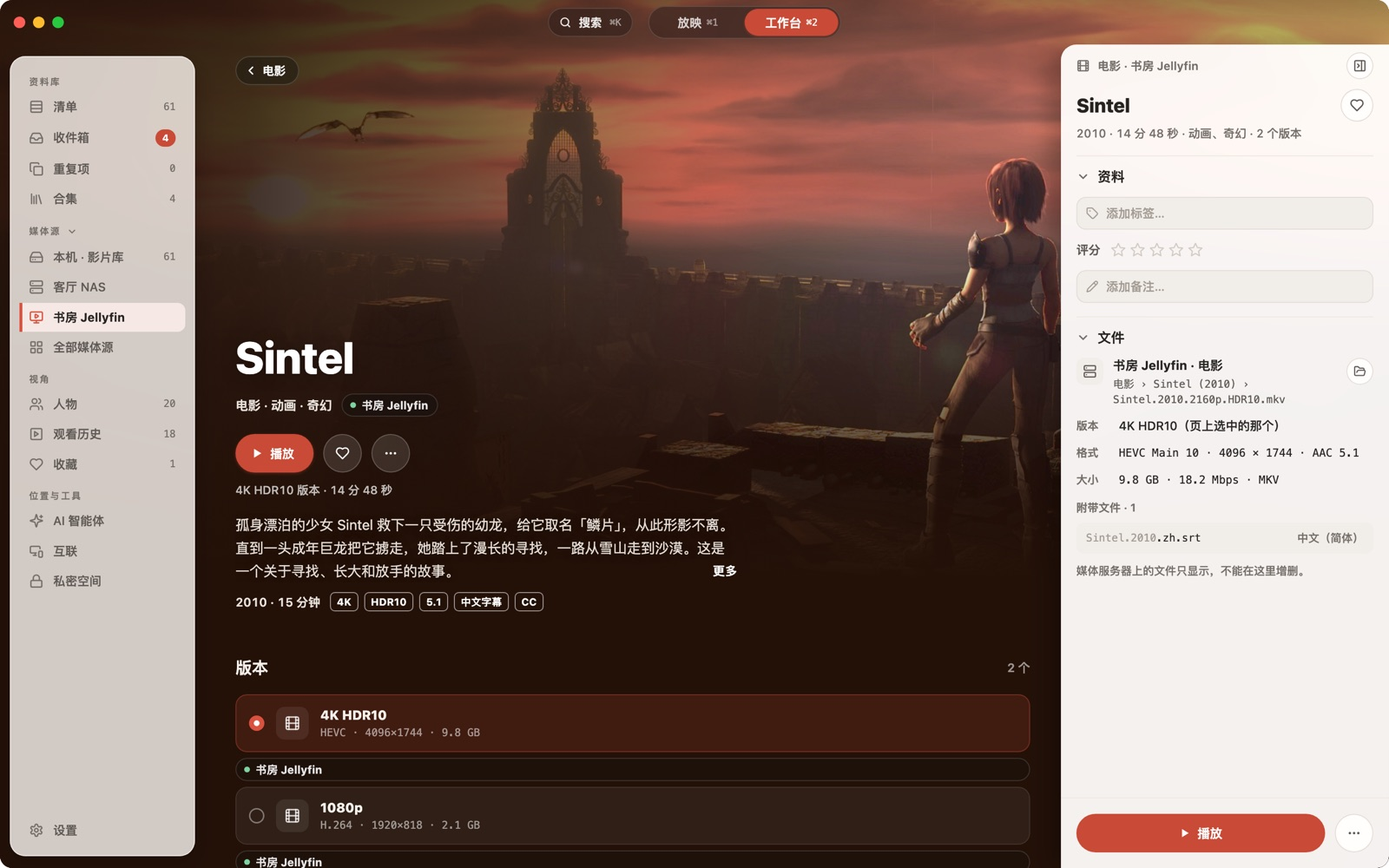
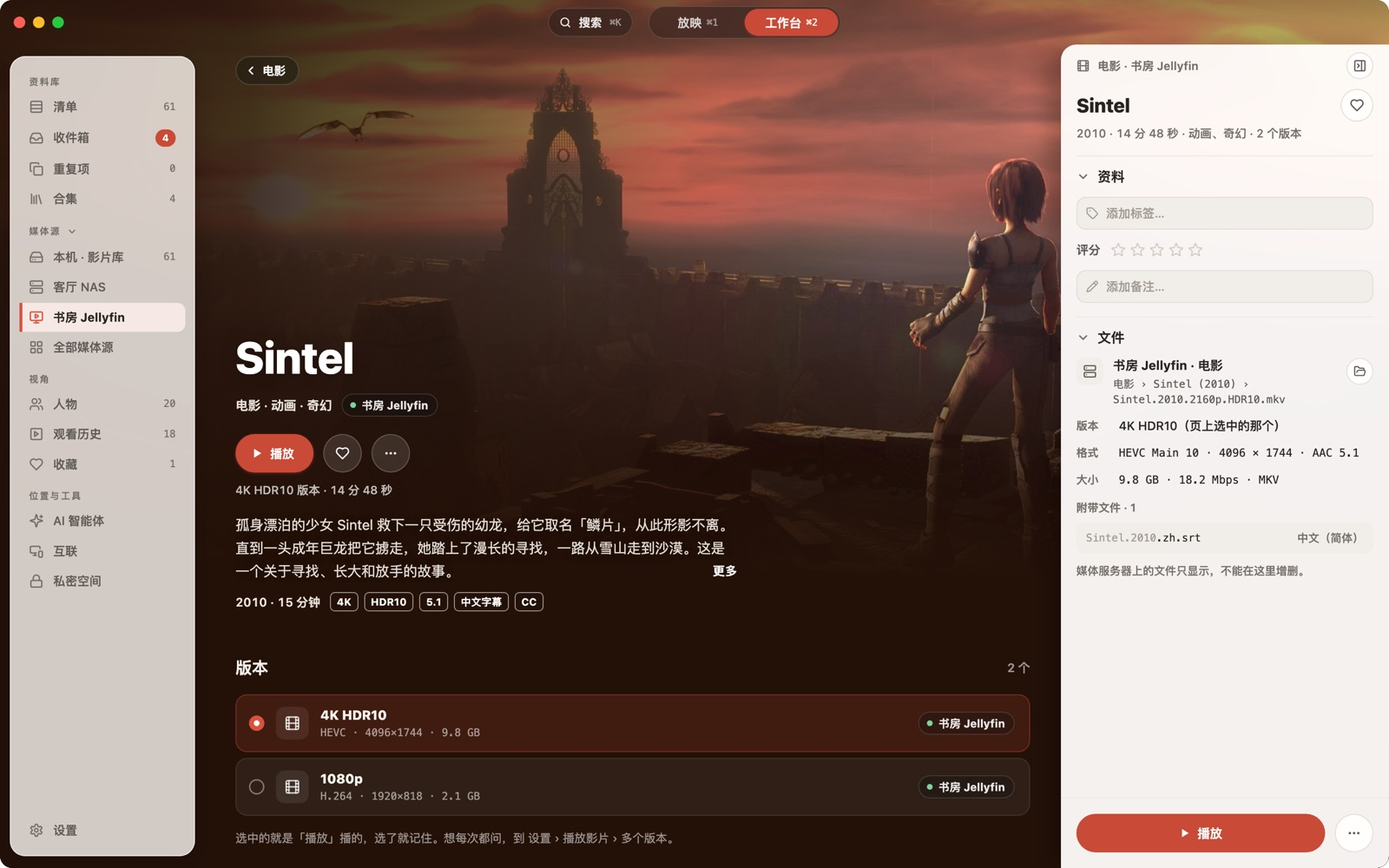
英文攻略页的 13 张截图换成英文界面；合集攻略那张 Mac 截图的来源小条回到各自那一行
英文攻略页（guides/en/ 下 8 页）原来用的是中文界面的截图，现在 13 张都换成英文界面，
文件名是原名加 .en.jpg，大小和中文那张一样，版面不变。中文攻略页照旧用中文截图。

英文界面里的字用的是 App 自己的英文；App 里没有的（示例片名、示例路径、示例日期）
按同一套示例名写。攻略正文里跟图上叫法不一样的三处一起对齐：
「Archive Folder Rules」「Apply the New Rules to Existing Videos」「My TMDB key」。

另外，make-a-collection-1（Sintel 详情页）两个版本行右边的来源小条原来掉到了行下面，
中英两张都改回行内右端，所以中文那张图也重出了一次。

Changed region(s): [[0.1562, 0.868, 0.5, 1.0], [0.6562, 0.899, 0.7188, 0.93], [0.6562, 0.806, 0.7188, 0.837]]

diff --git a/guides/en/build-your-library.html b/guides/en/build-your-library.html
@@ -218,7 +218,7 @@ svg.zg{position:static!important;display:inline-block!important;fill:currentColo
 <p>Nsuve starts with the file and folder names and reads out the title, year, season and episode. If there's an NFO or artwork next to the video, it reads those too. Then it looks the title up and fills in the overview, artwork and cast.</p>
 <p>By default it asks the <b>Nsurator Library DB</b>, which is built into Nsuve. Its data comes from TMDB and Bangumi, so recognition works without any key. What goes out is a query (title, year, season and episode numbers), never the video itself.</p>
 <p>When the same film sits in more than one place, say once on your NAS and once on Emby, Nsuve matches the copies by their TMDB, IMDb and TVDB IDs and shows the film once on the poster wall.</p>
-<figure class="shot dev-mac"><img src="/guides/assets/shots/build-your-library-1.jpg" alt="A title page in Nsuve for Mac: the backdrop, title and overview of Sintel, with two versions listed below" width="1440" height="900" loading="lazy" decoding="async"><figcaption>Every recognized title gets its own page, with the title, overview, the versions you have and where each one lives.</figcaption></figure>
+<figure class="shot dev-mac"><img src="/guides/assets/shots/build-your-library-1.en.jpg" alt="A title page in Nsuve for Mac: the backdrop, title and overview of Sintel, with two versions listed below" width="1440" height="900" loading="lazy" decoding="async"><figcaption>Every recognized title gets its own page, with the title, overview, the versions you have and where each one lives.</figcaption></figure>
 <p>Open a film and check three things: the title and year, whether the overview fits, and whether the version listed is the file you meant. If all three look right, hit <b>Play</b>.</p>
 </section>
 
@@ -262,7 +262,7 @@ svg.zg{position:static!important;display:inline-block!important;fill:currentColo
 <h2>The built-in library or your own TMDB key</h2>
 <p>Nsuve recognizes films without anything filled in. If you'd like a second route, add your own TMDB key. It's optional, it stays in this device's keychain, and when Nsuve uses it, it talks to TMDB directly.</p>
 <ol class="steps">
-<li>On the Mac, open <b>Settings → Movies &amp; TV</b>; on iPhone and iPad, open <b>Manage → Movie &amp; Show Info</b>. Find <b>My TMDB Key</b>.</li>
+<li>On the Mac, open <b>Settings → Movies &amp; TV</b>; on iPhone and iPad, open <b>Manage → Movie &amp; Show Info</b>. Find <b>My TMDB key</b>.</li>
 <li>Sign in at themoviedb.org (creating an account is free), open <b>Settings › API</b> and request a key.</li>
 <li>Copy the string next to <b>API Key</b> and paste it into Nsuve. On the Mac, clicking <b>Paste</b> checks the key straight away; when it says <b>Ready</b>, you're done.</li>
 </ol>
@@ -273,7 +273,7 @@ svg.zg{position:static!important;display:inline-block!important;fill:currentColo
 <li><b>Only Nsurator Library DB</b>: your key isn't used for now; it stays saved.</li>
 <li><b>Only My TMDB</b>: nothing is sent to the Nsurator Library DB.</li>
 </ul>
-<figure class="shot dev-mac"><img src="/guides/assets/shots/build-your-library-2.jpg" alt="Movies &amp; TV settings in Nsuve for Mac: the Nsurator Library DB and My TMDB Key both ready, with the four Ask options on the right" width="1440" height="900" loading="lazy" decoding="async"><figcaption>Settings → Movies &amp; TV. With both sources ready, all four Ask options are available.</figcaption></figure>
+<figure class="shot dev-mac"><img src="/guides/assets/shots/build-your-library-2.en.jpg" alt="Movies &amp; TV settings in Nsuve for Mac: the Nsurator Library DB and My TMDB key both ready, with the four Ask options on the right" width="1440" height="900" loading="lazy" decoding="async"><figcaption>Settings → Movies &amp; TV. With both sources ready, all four Ask options are available.</figcaption></figure>
 <p>The same page sets the info language, the artwork language and how often info is refreshed. To keep a folder offline on the Mac, set its <b>Where info comes from</b> to <b>Local only</b>. On iPhone and iPad you can turn off <b>Recognize Online</b> on the same settings page, and the first time Nsuve wants to recognize online it asks you with a card.</p>
 </section>
 

diff --git a/src/home/guides/en/build-your-library.html b/src/home/guides/en/build-your-library.html
@@ -218,7 +218,7 @@ svg.zg{position:static!important;display:inline-block!important;fill:currentColo
 <p>Nsuve starts with the file and folder names and reads out the title, year, season and episode. If there's an NFO or artwork next to the video, it reads those too. Then it looks the title up and fills in the overview, artwork and cast.</p>
 <p>By default it asks the <b>Nsurator Library DB</b>, which is built into Nsuve. Its data comes from TMDB and Bangumi, so recognition works without any key. What goes out is a query (title, year, season and episode numbers), never the video itself.</p>
 <p>When the same film sits in more than one place, say once on your NAS and once on Emby, Nsuve matches the copies by their TMDB, IMDb and TVDB IDs and shows the film once on the poster wall.</p>
-<figure class="shot dev-mac"><img src="/guides/assets/shots/build-your-library-1.jpg" alt="A title page in Nsuve for Mac: the backdrop, title and overview of Sintel, with two versions listed below" width="1440" height="900" loading="lazy" decoding="async"><figcaption>Every recognized title gets its own page, with the title, overview, the versions you have and where each one lives.</figcaption></figure>
+<figure class="shot dev-mac"><img src="/guides/assets/shots/build-your-library-1.en.jpg" alt="A title page in Nsuve for Mac: the backdrop, title and overview of Sintel, with two versions listed below" width="1440" height="900" loading="lazy" decoding="async"><figcaption>Every recognized title gets its own page, with the title, overview, the versions you have and where each one lives.</figcaption></figure>
 <p>Open a film and check three things: the title and year, whether the overview fits, and whether the version listed is the file you meant. If all three look right, hit <b>Play</b>.</p>
 </section>
 
@@ -262,7 +262,7 @@ svg.zg{position:static!important;display:inline-block!important;fill:currentColo
 <h2>The built-in library or your own TMDB key</h2>
 <p>Nsuve recognizes films without anything filled in. If you'd like a second route, add your own TMDB key. It's optional, it stays in this device's keychain, and when Nsuve uses it, it talks to TMDB directly.</p>
 <ol class="steps">
-<li>On the Mac, open <b>Settings → Movies &amp; TV</b>; on iPhone and iPad, open <b>Manage → Movie &amp; Show Info</b>. Find <b>My TMDB Key</b>.</li>
+<li>On the Mac, open <b>Settings → Movies &amp; TV</b>; on iPhone and iPad, open <b>Manage → Movie &amp; Show Info</b>. Find <b>My TMDB key</b>.</li>
 <li>Sign in at themoviedb.org (creating an account is free), open <b>Settings › API</b> and request a key.</li>
 <li>Copy the string next to <b>API Key</b> and paste it into Nsuve. On the Mac, clicking <b>Paste</b> checks the key straight away; when it says <b>Ready</b>, you're done.</li>
 </ol>
@@ -273,7 +273,7 @@ svg.zg{position:static!important;display:inline-block!important;fill:currentColo
 <li><b>Only Nsurator Library DB</b>: your key isn't used for now; it stays saved.</li>
 <li><b>Only My TMDB</b>: nothing is sent to the Nsurator Library DB.</li>
 </ul>
-<figure class="shot dev-mac"><img src="/guides/assets/shots/build-your-library-2.jpg" alt="Movies &amp; TV settings in Nsuve for Mac: the Nsurator Library DB and My TMDB Key both ready, with the four Ask options on the right" width="1440" height="900" loading="lazy" decoding="async"><figcaption>Settings → Movies &amp; TV. With both sources ready, all four Ask options are available.</figcaption></figure>
+<figure class="shot dev-mac"><img src="/guides/assets/shots/build-your-library-2.en.jpg" alt="Movies &amp; TV settings in Nsuve for Mac: the Nsurator Library DB and My TMDB key both ready, with the four Ask options on the right" width="1440" height="900" loading="lazy" decoding="async"><figcaption>Settings → Movies &amp; TV. With both sources ready, all four Ask options are available.</figcaption></figure>
 <p>The same page sets the info language, the artwork language and how often info is refreshed. To keep a folder offline on the Mac, set its <b>Where info comes from</b> to <b>Local only</b>. On iPhone and iPad you can turn off <b>Recognize Online</b> on the same settings page, and the first time Nsuve wants to recognize online it asks you with a card.</p>
 </section>
 

diff --git a/guides/en/make-a-collection.html b/guides/en/make-a-collection.html
@@ -233,7 +233,7 @@ svg.zg{position:static!important;display:inline-block!important;fill:currentColo
 <li>Find the tag collection on the Collections page. Its rule is written under its name.</li>
 <li>Click Edit Rule… to give the tag a color (it also tints the collection cover), write a description, or add aliases. Searching for an alias finds the same films as the tag itself.</li>
 </ol>
-<figure class="shot dev-mac"><img src="/guides/assets/shots/make-a-collection-1.jpg" alt="The Sintel page on Mac, with the details rail open on the right showing Add Tags…, a star rating and Add Notes…" width="1600" height="1000" loading="lazy" decoding="async"><figcaption>Select a film and the details rail lets you add tags, a rating and notes. The screenshots on this page show the app in Chinese.</figcaption></figure>
+<figure class="shot dev-mac"><img src="/guides/assets/shots/make-a-collection-1.en.jpg" alt="The Sintel page on Mac, with the details rail open on the right showing Add Tags…, a star rating and Add Notes…" width="1600" height="1000" loading="lazy" decoding="async"><figcaption>Select a film and the details rail lets you add tags, a rating and notes.</figcaption></figure>
 <p>Once every film in a tag collection is archived into your library, you can rename or delete it. Two tags that mean the same thing can be combined with Merge into Another Tag….</p>
 <p>The rule is always one tag. You can't combine year, genre and resolution into one rule; to browse by year or source, use the Year and Source Collections Nsuve builds for you.</p>
 <p>If a collection turns out to hold one season of a show, Nsuve says these films look like one season. Use Convert to TV Show… and it becomes a real show, with a show page and an episode list.</p>
@@ -250,7 +250,7 @@ svg.zg{position:static!important;display:inline-block!important;fill:currentColo
 <li><b>Where the files go</b>: into a hidden folder called <code>.nsurator-private</code> inside your library. They are hidden, <b>not separately encrypted</b>, and anyone who can log in to this Mac can still open that folder in Finder. To encrypt the whole disk, turn on FileVault in System Settings → Privacy &amp; Security.</li>
 <li><b>What can go in</b>: only files in this Mac's library. Films on a NAS, a media server or a cloud drive can't be moved in.</li>
 </ul>
-<figure class="shot dev-mac"><img src="/guides/assets/shots/make-a-collection-2.jpg" alt="The Mac player playing a private film; the top left shows only a lock and the words Private Video" width="1600" height="900" loading="lazy" decoding="async"><figcaption>A private film plays under the title "Private Video", never its real name.</figcaption></figure>
+<figure class="shot dev-mac"><img src="/guides/assets/shots/make-a-collection-2.en.jpg" alt="The Mac player playing a private film; the top left shows only a lock and the words Private Video" width="1600" height="900" loading="lazy" decoding="async"><figcaption>A private film plays under the title "Private Video", never its real name.</figcaption></figure>
 <h3>On iPhone and iPad (coming soon)</h3>
 <p>On iPhone and iPad, Private Space is an <b>encrypted</b> vault. You'll find it on the card at the top of the Files tab; unlock it with Face ID (or Touch ID, or your passcode). To move a video in, choose Move to Private Space… from the file's ⋯ menu. Private videos stay out of your ordinary history, and the player won't take screenshots, use Picture in Picture or cast them. Lock the app or switch away and the sound stops and the picture is covered.</p>
 <aside class="note"><strong>What never sees it</strong><p>AI agents, global search, iCloud sync and Nsuve Link can't reach Private Space. Backups leave it out unless you turn it on. Apple TV and Vision Pro have no Private Space.</p></aside>

diff --git a/src/home/guides/en/make-a-collection.html b/src/home/guides/en/make-a-collection.html
@@ -233,7 +233,7 @@ svg.zg{position:static!important;display:inline-block!important;fill:currentColo
 <li>Find the tag collection on the Collections page. Its rule is written under its name.</li>
 <li>Click Edit Rule… to give the tag a color (it also tints the collection cover), write a description, or add aliases. Searching for an alias finds the same films as the tag itself.</li>
 </ol>
-<figure class="shot dev-mac"><img src="/guides/assets/shots/make-a-collection-1.jpg" alt="The Sintel page on Mac, with the details rail open on the right showing Add Tags…, a star rating and Add Notes…" width="1600" height="1000" loading="lazy" decoding="async"><figcaption>Select a film and the details rail lets you add tags, a rating and notes. The screenshots on this page show the app in Chinese.</figcaption></figure>
+<figure class="shot dev-mac"><img src="/guides/assets/shots/make-a-collection-1.en.jpg" alt="The Sintel page on Mac, with the details rail open on the right showing Add Tags…, a star rating and Add Notes…" width="1600" height="1000" loading="lazy" decoding="async"><figcaption>Select a film and the details rail lets you add tags, a rating and notes.</figcaption></figure>
 <p>Once every film in a tag collection is archived into your library, you can rename or delete it. Two tags that mean the same thing can be combined with Merge into Another Tag….</p>
 <p>The rule is always one tag. You can't combine year, genre and resolution into one rule; to browse by year or source, use the Year and Source Collections Nsuve builds for you.</p>
 <p>If a collection turns out to hold one season of a show, Nsuve says these films look like one season. Use Convert to TV Show… and it becomes a real show, with a show page and an episode list.</p>
@@ -250,7 +250,7 @@ svg.zg{position:static!important;display:inline-block!important;fill:currentColo
 <li><b>Where the files go</b>: into a hidden folder called <code>.nsurator-private</code> inside your library. They are hidden, <b>not separately encrypted</b>, and anyone who can log in to this Mac can still open that folder in Finder. To encrypt the whole disk, turn on FileVault in System Settings → Privacy &amp; Security.</li>
 <li><b>What can go in</b>: only files in this Mac's library. Films on a NAS, a media server or a cloud drive can't be moved in.</li>
 </ul>
-<figure class="shot dev-mac"><img src="/guides/assets/shots/make-a-collection-2.jpg" alt="The Mac player playing a private film; the top left shows only a lock and the words Private Video" width="1600" height="900" loading="lazy" decoding="async"><figcaption>A private film plays under the title "Private Video", never its real name.</figcaption></figure>
+<figure class="shot dev-mac"><img src="/guides/assets/shots/make-a-collection-2.en.jpg" alt="The Mac player playing a private film; the top left shows only a lock and the words Private Video" width="1600" height="900" loading="lazy" decoding="async"><figcaption>A private film plays under the title "Private Video", never its real name.</figcaption></figure>
 <h3>On iPhone and iPad (coming soon)</h3>
 <p>On iPhone and iPad, Private Space is an <b>encrypted</b> vault. You'll find it on the card at the top of the Files tab; unlock it with Face ID (or Touch ID, or your passcode). To move a video in, choose Move to Private Space… from the file's ⋯ menu. Private videos stay out of your ordinary history, and the player won't take screenshots, use Picture in Picture or cast them. Lock the app or switch away and the sound stops and the picture is covered.</p>
 <aside class="note"><strong>What never sees it</strong><p>AI agents, global search, iCloud sync and Nsuve Link can't reach Private Space. Backups leave it out unless you turn it on. Apple TV and Vision Pro have no Private Space.</p></aside>

diff --git a/guides/en/watch-and-resume.html b/guides/en/watch-and-resume.html
@@ -213,7 +213,7 @@ svg.zg{position:static!important;display:inline-block!important;fill:currentColo
 <section id="tracks">
 <h2>Subtitles and audio</h2>
 <p>Along the bottom of the Mac player: volume on the left, play/pause and skipping in the middle, and subtitles, audio, speed, more and full screen on the right. Click subtitles or audio and the side panel opens. It has seven pages, Episodes, Subtitles, Audio, Picture, Playback Options, Output and Info, and <kbd>⌥⌘1</kbd> through <kbd>⌥⌘7</kbd> jump straight to each one. (Episodes appears only when there's a next episode or a playlist.)</p>
-<figure class="shot dev-mac"><img src="/guides/assets/shots/watch-and-resume-1.jpg" alt="The Nsuve player on the Mac with the side panel open on Subtitles: embedded Chinese and English tracks and an ASS file that sits next to the film" width="1440" height="810" loading="lazy" decoding="async"><figcaption>The player's side panel, Subtitles page. Embedded tracks and subtitle files next to the film are listed together.</figcaption></figure>
+<figure class="shot dev-mac"><img src="/guides/assets/shots/watch-and-resume-1.en.jpg" alt="The Nsuve player on the Mac with the side panel open on Subtitles: embedded Chinese and English tracks and an ASS file that sits next to the film" width="1440" height="810" loading="lazy" decoding="async"><figcaption>The player's side panel, Subtitles page. Embedded tracks and subtitle files next to the film are listed together.</figcaption></figure>
 <ul>
 <li><b>Main</b>: embedded subtitle tracks and matching subtitle files next to the video, all in one list. Click one to switch.</li>
 <li><b>Second</b>: add a second track, shown at the top of the picture. Handy for comparing two languages.</li>
@@ -253,7 +253,7 @@ svg.zg{position:static!important;display:inline-block!important;fill:currentColo
 <section id="diagnose">
 <h2>When playback stutters: Playback Diagnostics</h2>
 <p>On the Mac, with the player window in front, press <kbd>⌥⌘I</kbd> to open <b>Playback Diagnostics</b>. The top line says whether playback is healthy. Below it are the last 60 seconds of speed, bitrate and buffer ahead, the <b>Decoding route</b> (hardware or software this time) and how many times it rebuffered. If something's wrong, <b>Things to try</b> suggests what to do.</p>
-<figure class="shot dev-mac"><img src="/guides/assets/shots/watch-and-resume-2.jpg" alt="Playback Diagnostics open over the Mac player: playback is healthy, HEVC Main 10 is hardware decoded, with Copy Diagnostics and Report This Problem buttons at the bottom" width="1440" height="900" loading="lazy" decoding="async"><figcaption>Playback Diagnostics, opened with ⌥⌘I. This 4K HDR10 HEVC film is hardware decoded.</figcaption></figure>
+<figure class="shot dev-mac"><img src="/guides/assets/shots/watch-and-resume-2.en.jpg" alt="Playback Diagnostics open over the Mac player: playback is healthy, HEVC Main 10 is hardware decoded, with Copy Diagnostics and Report This Problem buttons at the bottom" width="1440" height="900" loading="lazy" decoding="async"><figcaption>Playback Diagnostics, opened with ⌥⌘I. This 4K HDR10 HEVC film is hardware decoded.</figcaption></figure>
 <ul>
 <li><b>Copy Diagnostics</b>: copies the details without file paths or accounts, ready to paste anywhere.</li>
 <li><b>Report This Problem…</b>: sends the diagnostics straight to the developer. A report may include titles and paths from your Private Space; they're used only to fix the problem and are never made public.</li>

diff --git a/src/home/guides/en/watch-and-resume.html b/src/home/guides/en/watch-and-resume.html
@@ -213,7 +213,7 @@ svg.zg{position:static!important;display:inline-block!important;fill:currentColo
 <section id="tracks">
 <h2>Subtitles and audio</h2>
 <p>Along the bottom of the Mac player: volume on the left, play/pause and skipping in the middle, and subtitles, audio, speed, more and full screen on the right. Click subtitles or audio and the side panel opens. It has seven pages, Episodes, Subtitles, Audio, Picture, Playback Options, Output and Info, and <kbd>⌥⌘1</kbd> through <kbd>⌥⌘7</kbd> jump straight to each one. (Episodes appears only when there's a next episode or a playlist.)</p>
-<figure class="shot dev-mac"><img src="/guides/assets/shots/watch-and-resume-1.jpg" alt="The Nsuve player on the Mac with the side panel open on Subtitles: embedded Chinese and English tracks and an ASS file that sits next to the film" width="1440" height="810" loading="lazy" decoding="async"><figcaption>The player's side panel, Subtitles page. Embedded tracks and subtitle files next to the film are listed together.</figcaption></figure>
+<figure class="shot dev-mac"><img src="/guides/assets/shots/watch-and-resume-1.en.jpg" alt="The Nsuve player on the Mac with the side panel open on Subtitles: embedded Chinese and English tracks and an ASS file that sits next to the film" width="1440" height="810" loading="lazy" decoding="async"><figcaption>The player's side panel, Subtitles page. Embedded tracks and subtitle files next to the film are listed together.</figcaption></figure>
 <ul>
 <li><b>Main</b>: embedded subtitle tracks and matching subtitle files next to the video, all in one list. Click one to switch.</li>
 <li><b>Second</b>: add a second track, shown at the top of the picture. Handy for comparing two languages.</li>
@@ -253,7 +253,7 @@ svg.zg{position:static!important;display:inline-block!important;fill:currentColo
 <section id="diagnose">
 <h2>When playback stutters: Playback Diagnostics</h2>
 <p>On the Mac, with the player window in front, press <kbd>⌥⌘I</kbd> to open <b>Playback Diagnostics</b>. The top line says whether playback is healthy. Below it are the last 60 seconds of speed, bitrate and buffer ahead, the <b>Decoding route</b> (hardware or software this time) and how many times it rebuffered. If something's wrong, <b>Things to try</b> suggests what to do.</p>
-<figure class="shot dev-mac"><img src="/guides/assets/shots/watch-and-resume-2.jpg" alt="Playback Diagnostics open over the Mac player: playback is healthy, HEVC Main 10 is hardware decoded, with Copy Diagnostics and Report This Problem buttons at the bottom" width="1440" height="900" loading="lazy" decoding="async"><figcaption>Playback Diagnostics, opened with ⌥⌘I. This 4K HDR10 HEVC film is hardware decoded.</figcaption></figure>
+<figure class="shot dev-mac"><img src="/guides/assets/shots/watch-and-resume-2.en.jpg" alt="Playback Diagnostics open over the Mac player: playback is healthy, HEVC Main 10 is hardware decoded, with Copy Diagnostics and Report This Problem buttons at the bottom" width="1440" height="900" loading="lazy" decoding="async"><figcaption>Playback Diagnostics, opened with ⌥⌘I. This 4K HDR10 HEVC film is hardware decoded.</figcaption></figure>
 <ul>
 <li><b>Copy Diagnostics</b>: copies the details without file paths or accounts, ready to paste anywhere.</li>
 <li><b>Report This Problem…</b>: sends the diagnostics straight to the developer. A report may include titles and paths from your Private Space; they're used only to fix the problem and are never made public.</li>

diff --git a/guides/en/organize-and-deduplicate.html b/guides/en/organize-and-deduplicate.html
@@ -210,19 +210,19 @@ svg.zg{position:static!important;display:inline-block!important;fill:currentColo
 
 <section id="rules">
 <h2>Set your archive rules first</h2>
-<p>Before archiving, decide what archived films are called and where they go. In <b>Settings → Library</b>, scroll to <b>Archive Rules</b>:</p>
+<p>Before archiving, decide what archived films are called and where they go. In <b>Settings → Library</b>, scroll to <b>Archive Folder Rules</b>:</p>
 <ul>
 <li><b>Movies</b>: <b>Title (Release Year)</b> by default, for example <code>Library/Movies/Dune Part Two (2024)/Dune Part Two (2024).mkv</code>.</li>
 <li><b>TV shows</b>: <b>Show / Season</b> by default, one folder per season, with season and episode numbers like S01E03 in the file name.</li>
 <li><b>Personal videos</b>: <b>Source / Month</b> by default.</li>
 </ul>
 <p>For something else, choose <b>Custom…</b> and build a pattern from variables for the title, year, season, episode and more. Each rule shows a sample path underneath, so you can see the result before you commit.</p>
-<figure class="shot dev-mac"><img src="/guides/assets/shots/organize-and-deduplicate-1.jpg" alt="Archive Rules in the Mac settings: one row each for movies, TV shows and personal videos with a sample path, then the name-conflict choice and applying rules to existing videos" width="1220" height="742" loading="lazy" decoding="async"><figcaption>Archive Rules in Settings → Library. Every rule comes with a sample path.</figcaption></figure>
+<figure class="shot dev-mac"><img src="/guides/assets/shots/organize-and-deduplicate-1.en.jpg" alt="Archive Folder Rules in the Mac's settings: one row each for movies, TV shows and personal videos with a sample path, then the name-conflict choice and applying rules to existing videos" width="1220" height="742" loading="lazy" decoding="async"><figcaption>Archive Folder Rules in Settings → Library. Every rule comes with a sample path.</figcaption></figure>
 <p>Three more settings sit on the same page:</p>
 <ul>
 <li><b>When a Name Already Exists</b>: <b>Rename New File</b> adds a number to the new file's name and never overwrites the old one; <b>Skip Archive</b> leaves the new file in the Inbox.</li>
 <li><b>Re-archive After Edits</b>: when this is on and you change a title or year, the file moves to where the rules now say it belongs.</li>
-<li><b>Apply Rules to Existing Videos</b>: to bring older films in line with new rules, click <b>Generate Preview</b> first; it only reads and moves nothing. If the preview looks right, click <b>Confirm Move…</b>. Films in your Private Space are never moved.</li>
+<li><b>Apply the New Rules to Existing Videos</b>: to bring older films in line with new rules, click <b>Generate Preview</b> first; it only reads and moves nothing. If the preview looks right, click <b>Confirm Move…</b>. Films in your Private Space are never moved.</li>
 </ul>
 <aside class="note"><strong>Tip</strong><p>Before moving a lot of older films, make a backup first; see <a href="/guides/en/backup-and-move.html">Backup and moving</a>.</p></aside>
 </section>

diff --git a/src/home/guides/en/organize-and-deduplicate.html b/src/home/guides/en/organize-and-deduplicate.html
@@ -210,19 +210,19 @@ svg.zg{position:static!important;display:inline-block!important;fill:currentColo
 
 <section id="rules">
 <h2>Set your archive rules first</h2>
-<p>Before archiving, decide what archived films are called and where they go. In <b>Settings → Library</b>, scroll to <b>Archive Rules</b>:</p>
+<p>Before archiving, decide what archived films are called and where they go. In <b>Settings → Library</b>, scroll to <b>Archive Folder Rules</b>:</p>
 <ul>
 <li><b>Movies</b>: <b>Title (Release Year)</b> by default, for example <code>Library/Movies/Dune Part Two (2024)/Dune Part Two (2024).mkv</code>.</li>
 <li><b>TV shows</b>: <b>Show / Season</b> by default, one folder per season, with season and episode numbers like S01E03 in the file name.</li>
 <li><b>Personal videos</b>: <b>Source / Month</b> by default.</li>
 </ul>
 <p>For something else, choose <b>Custom…</b> and build a pattern from variables for the title, year, season, episode and more. Each rule shows a sample path underneath, so you can see the result before you commit.</p>
-<figure class="shot dev-mac"><img src="/guides/assets/shots/organize-and-deduplicate-1.jpg" alt="Archive Rules in the Mac settings: one row each for movies, TV shows and personal videos with a sample path, then the name-conflict choice and applying rules to existing videos" width="1220" height="742" loading="lazy" decoding="async"><figcaption>Archive Rules in Settings → Library. Every rule comes with a sample path.</figcaption></figure>
+<figure class="shot dev-mac"><img src="/guides/assets/shots/organize-and-deduplicate-1.en.jpg" alt="Archive Folder Rules in the Mac's settings: one row each for movies, TV shows and personal videos with a sample path, then the name-conflict choice and applying rules to existing videos" width="1220" height="742" loading="lazy" decoding="async"><figcaption>Archive Folder Rules in Settings → Library. Every rule comes with a sample path.</figcaption></figure>
 <p>Three more settings sit on the same page:</p>
 <ul>
 <li><b>When a Name Already Exists</b>: <b>Rename New File</b> adds a number to the new file's name and never overwrites the old one; <b>Skip Archive</b> leaves the new file in the Inbox.</li>
 <li><b>Re-archive After Edits</b>: when this is on and you change a title or year, the file moves to where the rules now say it belongs.</li>
-<li><b>Apply Rules to Existing Videos</b>: to bring older films in line with new rules, click <b>Generate Preview</b> first; it only reads and moves nothing. If the preview looks right, click <b>Confirm Move…</b>. Films in your Private Space are never moved.</li>
+<li><b>Apply the New Rules to Existing Videos</b>: to bring older films in line with new rules, click <b>Generate Preview</b> first; it only reads and moves nothing. If the preview looks right, click <b>Confirm Move…</b>. Films in your Private Space are never moved.</li>
 </ul>
 <aside class="note"><strong>Tip</strong><p>Before moving a lot of older films, make a backup first; see <a href="/guides/en/backup-and-move.html">Backup and moving</a>.</p></aside>
 </section>

diff --git a/guides/en/connect-sources.html b/guides/en/connect-sources.html
@@ -220,7 +220,7 @@ svg.zg{position:static!important;display:inline-block!important;fill:currentColo
 <li><b>Found on This Network</b> comes first: NAS boxes and media servers on the same network show up by themselves, address included. Or pick a type under <b>NAS &amp; Servers</b>, <b>Media Server</b> or <b>Your Devices</b>.</li>
 <li>Fill it in and save.</li>
 </ol>
-<figure class="shot dev-phone"><img src="/guides/assets/shots/connect-sources-2.jpg" alt="Add a Source on iPhone: a living-room NAS and a Jellyfin server found on the network, then SMB, WebDAV, SFTP, Jellyfin, Emby, Plex and Mac · Nsuve Link" width="804" height="1748" loading="lazy" decoding="async"><figcaption>Adding a source on iPhone. Anything found on your network is listed first.</figcaption></figure>
+<figure class="shot dev-phone"><img src="/guides/assets/shots/connect-sources-2.en.jpg" alt="Add a Source on iPhone: a living-room NAS and a Jellyfin server found on the network, then SMB, WebDAV, SFTP, Jellyfin, Emby, Plex and Mac · Nsuve Link" width="804" height="1748" loading="lazy" decoding="async"><figcaption>Adding a source on iPhone. Anything found on your network is listed first.</figcaption></figure>
 <p>The Mac and iPhone don't connect exactly the same things:</p>
 <div class="tbl wide"><div class="tbl-s"><table>
 <thead><tr><th>Source</th><th>Mac</th><th>iPhone and iPad</th></tr></thead>
@@ -241,7 +241,7 @@ svg.zg{position:static!important;display:inline-block!important;fill:currentColo
 <section id="servers">
 <h2>Media servers get a page of their own</h2>
 <p>Connect Emby, Jellyfin or Plex and Nsuve builds a page for it that looks like the Apple TV app's home screen: a featured row at the top, then Continue Watching, each of the server's libraries, and genres.</p>
-<figure class="shot dev-mac"><img src="/guides/assets/shots/connect-sources-1.jpg" alt="The page for a Jellyfin server in Nsuve for Mac: The Wandering Earth II featured at the top, Continue Watching below" width="1440" height="900" loading="lazy" decoding="async"><figcaption>A Jellyfin server's page on the Mac. The connection status sits at the top left; Continue Watching, the libraries and recent additions follow.</figcaption></figure>
+<figure class="shot dev-mac"><img src="/guides/assets/shots/connect-sources-1.en.jpg" alt="The page for a Jellyfin server in Nsuve for Mac: The Wandering Earth II featured at the top, Continue Watching below" width="1440" height="900" loading="lazy" decoding="async"><figcaption>A Jellyfin server's page on the Mac. The connection status sits at the top left; Continue Watching, the libraries and recent additions follow.</figcaption></figure>
 <p>Open a library and you get that server's poster wall. Nsuve uses the server's own posters, overviews and title logos, and each cast member opens to a page with their photo, credits and bio. When you search with <kbd>⌘K</kbd> on the Mac, each media source gets its own section in the results.</p>
 <p>iPhone and iPad have the same page.</p>
 </section>

diff --git a/src/home/guides/en/connect-sources.html b/src/home/guides/en/connect-sources.html
@@ -220,7 +220,7 @@ svg.zg{position:static!important;display:inline-block!important;fill:currentColo
 <li><b>Found on This Network</b> comes first: NAS boxes and media servers on the same network show up by themselves, address included. Or pick a type under <b>NAS &amp; Servers</b>, <b>Media Server</b> or <b>Your Devices</b>.</li>
 <li>Fill it in and save.</li>
 </ol>
-<figure class="shot dev-phone"><img src="/guides/assets/shots/connect-sources-2.jpg" alt="Add a Source on iPhone: a living-room NAS and a Jellyfin server found on the network, then SMB, WebDAV, SFTP, Jellyfin, Emby, Plex and Mac · Nsuve Link" width="804" height="1748" loading="lazy" decoding="async"><figcaption>Adding a source on iPhone. Anything found on your network is listed first.</figcaption></figure>
+<figure class="shot dev-phone"><img src="/guides/assets/shots/connect-sources-2.en.jpg" alt="Add a Source on iPhone: a living-room NAS and a Jellyfin server found on the network, then SMB, WebDAV, SFTP, Jellyfin, Emby, Plex and Mac · Nsuve Link" width="804" height="1748" loading="lazy" decoding="async"><figcaption>Adding a source on iPhone. Anything found on your network is listed first.</figcaption></figure>
 <p>The Mac and iPhone don't connect exactly the same things:</p>
 <div class="tbl wide"><div class="tbl-s"><table>
 <thead><tr><th>Source</th><th>Mac</th><th>iPhone and iPad</th></tr></thead>
@@ -241,7 +241,7 @@ svg.zg{position:static!important;display:inline-block!important;fill:currentColo
 <section id="servers">
 <h2>Media servers get a page of their own</h2>
 <p>Connect Emby, Jellyfin or Plex and Nsuve builds a page for it that looks like the Apple TV app's home screen: a featured row at the top, then Continue Watching, each of the server's libraries, and genres.</p>
-<figure class="shot dev-mac"><img src="/guides/assets/shots/connect-sources-1.jpg" alt="The page for a Jellyfin server in Nsuve for Mac: The Wandering Earth II featured at the top, Continue Watching below" width="1440" height="900" loading="lazy" decoding="async"><figcaption>A Jellyfin server's page on the Mac. The connection status sits at the top left; Continue Watching, the libraries and recent additions follow.</figcaption></figure>
+<figure class="shot dev-mac"><img src="/guides/assets/shots/connect-sources-1.en.jpg" alt="The page for a Jellyfin server in Nsuve for Mac: The Wandering Earth II featured at the top, Continue Watching below" width="1440" height="900" loading="lazy" decoding="async"><figcaption>A Jellyfin server's page on the Mac. The connection status sits at the top left; Continue Watching, the libraries and recent additions follow.</figcaption></figure>
 <p>Open a library and you get that server's poster wall. Nsuve uses the server's own posters, overviews and title logos, and each cast member opens to a page with their photo, credits and bio. When you search with <kbd>⌘K</kbd> on the Mac, each media source gets its own section in the results.</p>
 <p>iPhone and iPad have the same page.</p>
 </section>

diff --git a/guides/en/every-screen.html b/guides/en/every-screen.html
@@ -212,14 +212,14 @@ svg.zg{position:static!important;display:inline-block!important;fill:currentColo
 <tr><td>Vision Pro</td><td>Coming soon</td><td>Already included in Lifetime Pro for all platforms. No Private Space.</td></tr>
 </tbody>
 </table></div></div>
-<figure class="shot dev-phone"><img src="/guides/assets/shots/every-screen-2.jpg" alt="The series page for The Long Season on iPhone: the title artwork, a Continue E02 button and the source, a Jellyfin server in the study" width="560" height="1218" loading="lazy" decoding="async"><figcaption>A series page on iPhone, playing straight from a Jellyfin server. Screenshots on this page show the app in Chinese.</figcaption></figure>
+<figure class="shot dev-phone"><img src="/guides/assets/shots/every-screen-2.en.jpg" alt="The series page for The Long Season on iPhone: the title artwork, a Continue E02 button and the source, a Jellyfin server in the study" width="560" height="1218" loading="lazy" decoding="async"><figcaption>A series page on iPhone, playing straight from a Jellyfin server.</figcaption></figure>
 </section>
 
 <section id="phone">
 <h2>On iPhone and iPad</h2>
 <p>The tab bar has Home, Sources, Files and Manage, plus a ＋ button. On iPad they sit in the sidebar on the left.</p>
 <p>On a phone you can connect WebDAV, SMB, SFTP, Emby, Jellyfin and Plex, as well as files on the device and locations in the Files app. A Mac you've paired shows up under Sources too. Cloud drives and DLNA are Mac-only.</p>
-<figure class="shot dev-ipad"><img src="/guides/assets/shots/every-screen-1.jpg" alt="A wall of film posters from a Jellyfin server on iPad; the sidebar lists the Jellyfin server, a NAS and a paired MacBook Pro under Sources" width="1280" height="890" loading="lazy" decoding="async"><figcaption>On iPad, NAS drives, media servers and a paired Mac sit side by side under Sources.</figcaption></figure>
+<figure class="shot dev-ipad"><img src="/guides/assets/shots/every-screen-1.en.jpg" alt="A wall of film posters from a Jellyfin server on iPad; the sidebar lists the Jellyfin server, a NAS and a paired MacBook Pro under Sources" width="1280" height="890" loading="lazy" decoding="async"><figcaption>On iPad, NAS drives, media servers and a paired Mac sit side by side under Sources.</figcaption></figure>
 <h3>Sync between your iPhone and iPad with iCloud</h3>
 <p>In a source's settings, under Sync to Other Devices, turn on Sync This Source with iCloud. That source's recognition results, the matches you fixed by hand, the versions you picked, that NAS's settings and your watch progress then stay in step across the iPhones and iPads signed in to the same Apple Account. It all lives in your own iCloud, readable only by your devices. Passwords, Private Space and images are never synced.</p>
 <p>Your Mac's library doesn't sync through iCloud. To watch your Mac's films on a phone, use Nsuve Link.</p>

diff --git a/src/home/guides/en/every-screen.html b/src/home/guides/en/every-screen.html
@@ -212,14 +212,14 @@ svg.zg{position:static!important;display:inline-block!important;fill:currentColo
 <tr><td>Vision Pro</td><td>Coming soon</td><td>Already included in Lifetime Pro for all platforms. No Private Space.</td></tr>
 </tbody>
 </table></div></div>
-<figure class="shot dev-phone"><img src="/guides/assets/shots/every-screen-2.jpg" alt="The series page for The Long Season on iPhone: the title artwork, a Continue E02 button and the source, a Jellyfin server in the study" width="560" height="1218" loading="lazy" decoding="async"><figcaption>A series page on iPhone, playing straight from a Jellyfin server. Screenshots on this page show the app in Chinese.</figcaption></figure>
+<figure class="shot dev-phone"><img src="/guides/assets/shots/every-screen-2.en.jpg" alt="The series page for The Long Season on iPhone: the title artwork, a Continue E02 button and the source, a Jellyfin server in the study" width="560" height="1218" loading="lazy" decoding="async"><figcaption>A series page on iPhone, playing straight from a Jellyfin server.</figcaption></figure>
 </section>
 
 <section id="phone">
 <h2>On iPhone and iPad</h2>
 <p>The tab bar has Home, Sources, Files and Manage, plus a ＋ button. On iPad they sit in the sidebar on the left.</p>
 <p>On a phone you can connect WebDAV, SMB, SFTP, Emby, Jellyfin and Plex, as well as files on the device and locations in the Files app. A Mac you've paired shows up under Sources too. Cloud drives and DLNA are Mac-only.</p>
-<figure class="shot dev-ipad"><img src="/guides/assets/shots/every-screen-1.jpg" alt="A wall of film posters from a Jellyfin server on iPad; the sidebar lists the Jellyfin server, a NAS and a paired MacBook Pro under Sources" width="1280" height="890" loading="lazy" decoding="async"><figcaption>On iPad, NAS drives, media servers and a paired Mac sit side by side under Sources.</figcaption></figure>
+<figure class="shot dev-ipad"><img src="/guides/assets/shots/every-screen-1.en.jpg" alt="A wall of film posters from a Jellyfin server on iPad; the sidebar lists the Jellyfin server, a NAS and a paired MacBook Pro under Sources" width="1280" height="890" loading="lazy" decoding="async"><figcaption>On iPad, NAS drives, media servers and a paired Mac sit side by side under Sources.</figcaption></figure>
 <h3>Sync between your iPhone and iPad with iCloud</h3>
 <p>In a source's settings, under Sync to Other Devices, turn on Sync This Source with iCloud. That source's recognition results, the matches you fixed by hand, the versions you picked, that NAS's settings and your watch progress then stay in step across the iPhones and iPads signed in to the same Apple Account. It all lives in your own iCloud, readable only by your devices. Passwords, Private Space and images are never synced.</p>
 <p>Your Mac's library doesn't sync through iCloud. To watch your Mac's films on a phone, use Nsuve Link.</p>
